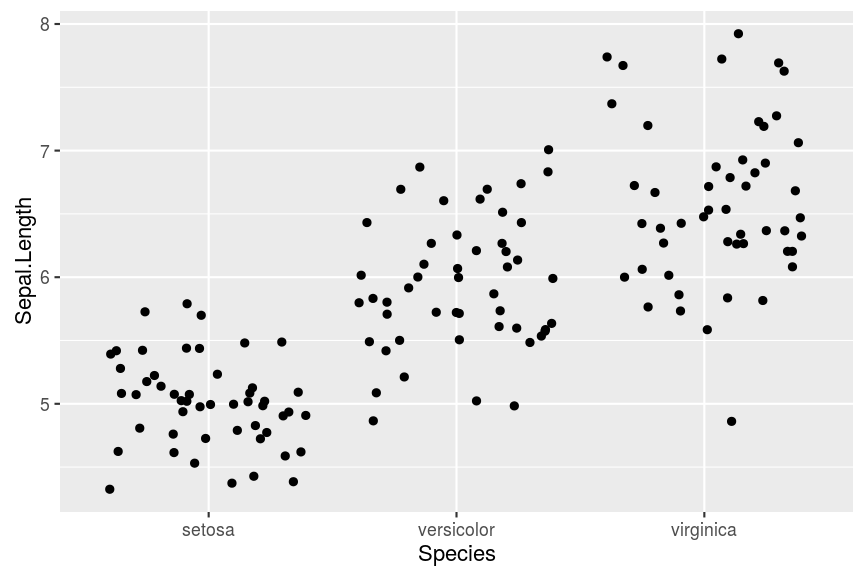
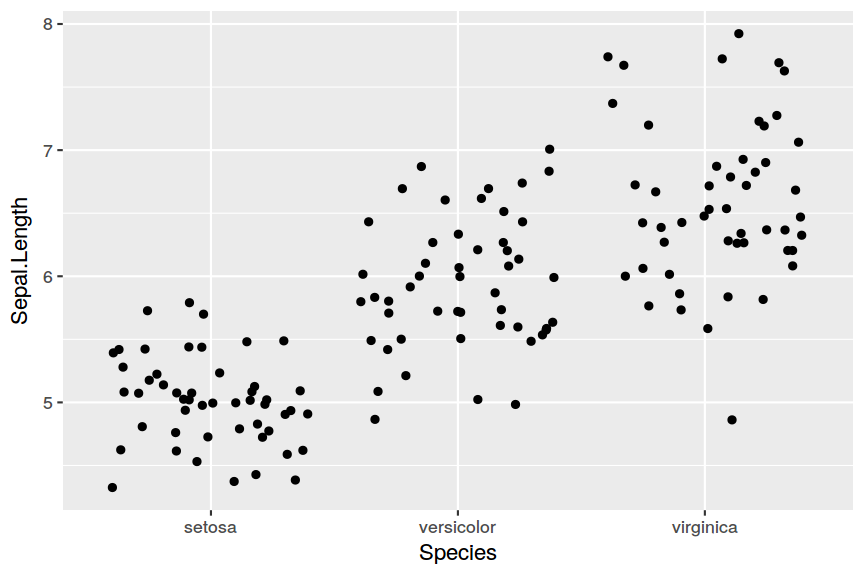
Tweak README for new geom_beeswarm. Rerender figures

diff --git a/README.md b/README.md
@@ -142,7 +142,7 @@ ggplot(mpg,aes(class, hwy)) + geom_beeswarm()
 
 ```r
 # With categorical y-axis
-ggplot(mpg,aes(hwy, class)) + geom_beeswarm()
+ggplot(mpg,aes(hwy, class)) + geom_beeswarm(cex=1.2)
 ```
 
 <img src="README_files/figure-html/ggplot2-beeswarm-3.png" title="plot of chunk ggplot2-beeswarm" alt="plot of chunk ggplot2-beeswarm" width="432" />
@@ -151,20 +151,21 @@ ggplot(mpg,aes(hwy, class)) + geom_beeswarm()
 # ggplot doesn't pass any information about the actual device size of the points
 # to the underlying layout code, so it's important to manually adjust the `cex` 
 # parameter for best results
-ggplot(mpg,aes(class, hwy)) + geom_beeswarm(cex=5)
+# Also watch out for points escaping from the plot with geom_beeswarm
+ggplot(mpg,aes(class, hwy)) + geom_beeswarm(cex=1.1)
 ```
 
 <img src="README_files/figure-html/ggplot2-beeswarm-4.png" title="plot of chunk ggplot2-beeswarm" alt="plot of chunk ggplot2-beeswarm" width="432" />
 
 ```r
-ggplot(iris,aes(Species, Sepal.Length)) + geom_beeswarm(cex=4,priority='density')
+ggplot(iris,aes(Species, Sepal.Length)) + geom_beeswarm(cex=1.2,priority='density')
 ```
 
 <img src="README_files/figure-html/ggplot2-beeswarm-5.png" title="plot of chunk ggplot2-beeswarm" alt="plot of chunk ggplot2-beeswarm" width="432" />
 
 ```r
 # With automatic dodging
-ggplot(sub_mpg, aes(class, displ, color=factor(cyl))) + geom_beeswarm(dodge.width=0.7, cex=4)
+ggplot(sub_mpg, aes(class, displ, color=factor(cyl))) + geom_beeswarm(dodge.width=0.5)
 ```
 
 <img src="README_files/figure-html/ggplot2-beeswarm-6.png" title="plot of chunk ggplot2-beeswarm" alt="plot of chunk ggplot2-beeswarm" width="432" />
